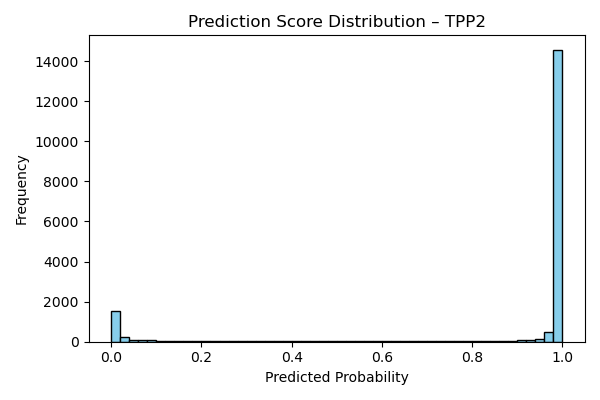
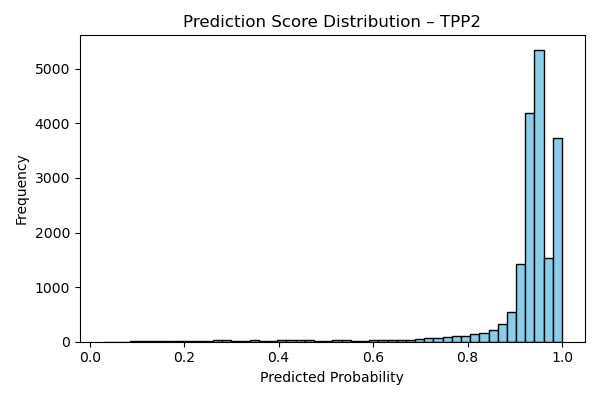
temperatur scale added

diff --git a/models_scripts/v1_mha/train-server2-bb-task_flatten-nbb.py b/models_scripts/v1_mha/train-server2-bb-task_flatten-nbb.py
@@ -4,7 +4,7 @@ import torch
 import torch.nn as nn
 import torch.optim as optim
 from torch.utils.data import DataLoader, Subset
-from sklearn.metrics import roc_auc_score, f1_score, confusion_matrix, precision_score, recall_score, average_precision_score, roc_curve, precision_recall_curve, accuracy_score
+from sklearn.metrics import roc_auc_score, f1_score, confusion_matrix, precision_score, recall_score, average_precision_score, roc_curve, precision_recall_curve, accuracy_score, log_loss
 from tqdm import tqdm
 import matplotlib.pyplot as plt
 import math
@@ -16,6 +16,7 @@ import wandb
 from dotenv import load_dotenv
 import random
 from torch.optim.lr_scheduler import ReduceLROnPlateau
+from sklearn.calibration import calibration_curve
 
 
 sys.path.append(os.path.abspath(os.path.join(os.path.dirname(__file__), '../../')))
@@ -354,6 +355,31 @@ for epoch in range(epochs):
         all_tasks = val_data["task"].values
 
         for tpp in ["TPP1", "TPP2", "TPP3", "TPP4"]:
+            
+            class TemperatureScaler(nn.Module):
+                def __init__(self):
+                    super().__init__()
+                    self.temperature = nn.Parameter(torch.ones(1) * 1.0)
+            
+                def forward(self, logits):
+                    return logits / self.temperature
+
+            def fit_temperature(logits, labels, max_iter=500):
+                logits = torch.tensor(logits).float()
+                labels = torch.tensor(labels).float()
+            
+                model = TemperatureScaler()
+                optimizer = optim.LBFGS([model.temperature], lr=0.01, max_iter=max_iter)
+            
+                def closure():
+                    optimizer.zero_grad()
+                    loss = nn.BCEWithLogitsLoss()(model(logits).squeeze(), labels)
+                    loss.backward()
+                    return loss
+            
+                optimizer.step(closure)
+                return model.temperature.item()
+
             mask = all_tasks == tpp
             if mask.sum() > 0:
                 labels = all_labels[mask]
@@ -417,6 +443,50 @@ for epoch in range(epochs):
                 plt.savefig(plot_path)
                 wandb.log({f"val_{tpp}_prediction_distribution": wandb.Image(plot_path)}, step=global_step)
                 plt.close()
+                # Temperature Scaling: Nur auf Logits anwenden, nicht auf Sigmoid-Ausgaben
+                raw_logits = np.log(outputs / (1 - outputs + 1e-8))  # reverse sigmoid
+                temperature = fit_temperature(raw_logits, labels)
+                scaled_logits = raw_logits / temperature
+                scaled_probs = 1 / (1 + np.exp(-scaled_logits))  # Sigmoid again
+                
+                # Jetzt z. B. neu evaluieren mit scaled_probs
+                scaled_preds = (scaled_probs > 0.5).astype(int)
+                
+                # Neue Metriken mit skalierter Ausgabe
+                scaled_f1 = f1_score(labels, scaled_preds, zero_division=0)
+                scaled_acc = accuracy_score(labels, scaled_preds)
+                scaled_prec = precision_score(labels, scaled_preds, zero_division=0)
+                scaled_rec = recall_score(labels, scaled_preds, zero_division=0)
+                
+                print(f"  TPP {tpp} — Temperature: {temperature:.4f}")
+                print(f"  Scaled Accuracy: {scaled_acc:.4f}, F1: {scaled_f1:.4f}")
+                
+                # Logge es optional nach wandb
+                wandb.log({
+                    f"val_{tpp}_temperature": temperature,
+                    f"val_{tpp}_f1_scaled": scaled_f1,
+                    f"val_{tpp}_accuracy_scaled": scaled_acc,
+                    f"val_{tpp}_precision_scaled": scaled_prec,
+                    f"val_{tpp}_recall_scaled": scaled_rec
+                }, step=global_step, commit=False)
+                # Reliability Diagram (nach dem Scaling!)
+                prob_true, prob_pred = calibration_curve(labels, scaled_probs, n_bins=10)
+                
+                plt.figure(figsize=(6, 4))
+                plt.plot(prob_pred, prob_true, marker='o', label="Calibrated")
+                plt.plot([0, 1], [0, 1], linestyle='--', color='gray', label='Perfect Calibration')
+                plt.xlabel("Predicted Probability (Binned)")
+                plt.ylabel("True Proportion of Positives")
+                plt.title(f"Reliability Diagram – {tpp}")
+                plt.legend()
+                plt.tight_layout()
+                
+                # Speicherpfad & Logging
+                plot_path_calib = f"results/{tpp}_reliability_epoch{epoch+1}.png"
+                plt.savefig(plot_path_calib)
+                wandb.log({f"val_{tpp}_reliability_diagram": wandb.Image(plot_path_calib)}, step=global_step)
+                plt.close()
+
             else:
                 print(f"\n Keine Beispiele für {tpp} im Validationset.")
     else:

diff --git a/models_scripts/v1_mha/test_v1_1024-res.py b/models_scripts/v1_mha/test_v1_1024-res.py
@@ -2,7 +2,7 @@ import os
 import numpy as np
 import torch
 from torch.utils.data import DataLoader
-from sklearn.metrics import roc_auc_score, f1_score, confusion_matrix, precision_score, recall_score, average_precision_score, roc_curve
+from sklearn.metrics import roc_auc_score, f1_score, confusion_matrix, precision_score, recall_score, average_precision_score, roc_curve, log_loss
 from tqdm import tqdm
 import matplotlib.pyplot as plt
 import pandas as pd
@@ -12,6 +12,7 @@ import yaml
 import sys
 import seaborn as sns
 import io
+from sklearn.calibration import calibration_curve
 
 # Pfade zur Modell- und Datendefinition
 sys.path.append(os.path.abspath(os.path.join(os.path.dirname(__file__), '../../')))
@@ -112,6 +113,30 @@ precision = precision_score(all_labels, all_preds)
 recall = recall_score(all_labels, all_preds)
 tn, fp, fn, tp = confusion_matrix(all_labels, all_preds).ravel()
 
+class TemperatureScaler(nn.Module):
+    def __init__(self):
+        super().__init__()
+        self.temperature = nn.Parameter(torch.ones(1) * 1.0)
+
+    def forward(self, logits):
+        return logits / self.temperature
+
+def fit_temperature(logits, labels, max_iter=500):
+    logits = torch.tensor(logits).float()
+    labels = torch.tensor(labels).float()
+
+    model = TemperatureScaler()
+    optimizer = optim.LBFGS([model.temperature], lr=0.01, max_iter=max_iter)
+
+    def closure():
+        optimizer.zero_grad()
+        loss = nn.BCEWithLogitsLoss()(model(logits).squeeze(), labels)
+        loss.backward()
+        return loss
+
+    optimizer.step(closure)
+    return model.temperature.item()
+
 # Ergebnisse
 print("\nTestergebnisse:")
 print(f"AUC:       {auc:.4f}")
@@ -197,6 +222,38 @@ if "task" in test_data.columns:
             plt.savefig(plot_path)
             wandb.log({f"{tpp}_prediction_distribution": wandb.Image(plot_path)})
             plt.close()
+            # Logits rekonstruieren aus Wahrscheinlichkeiten
+            raw_logits = np.log(outputs / (1 - outputs + 1e-8))  # reverse sigmoid
+            temperature = fit_temperature(raw_logits, labels)
+            scaled_logits = raw_logits / temperature
+            scaled_probs = 1 / (1 + np.exp(-scaled_logits))  # sigmoid
+            
+            # Optional: neue Metriken mit scaled_probs (z. B. bei threshold 0.5)
+            scaled_preds = (scaled_probs > 0.5).astype(int)
+            
+            # Logge Temperatur & Reliability Curve
+            wandb.log({
+                f"{tpp}_temperature": temperature,
+                f"{tpp}_scaled_confidence": wandb.Histogram(scaled_probs)
+            })
+            
+            # Reliability Diagram
+            prob_true, prob_pred = calibration_curve(labels, scaled_probs, n_bins=10)
+            
+            plt.figure(figsize=(6, 4))
+            plt.plot(prob_pred, prob_true, marker='o', label="Calibrated")
+            plt.plot([0, 1], [0, 1], linestyle='--', color='gray', label='Perfect Calibration')
+            plt.xlabel("Predicted Probability (Binned)")
+            plt.ylabel("True Proportion of Positives")
+            plt.title(f"Reliability Diagram – {tpp}")
+            plt.legend()
+            plt.tight_layout()
+            
+            path = f"results/{tpp}_reliability_test.png"
+            plt.savefig(path)
+            wandb.log({f"{tpp}_reliability_diagram": wandb.Image(path)})
+            plt.close()
+
         else:
             print(f"\nKeine Beispiele für {tpp}")
 else:
